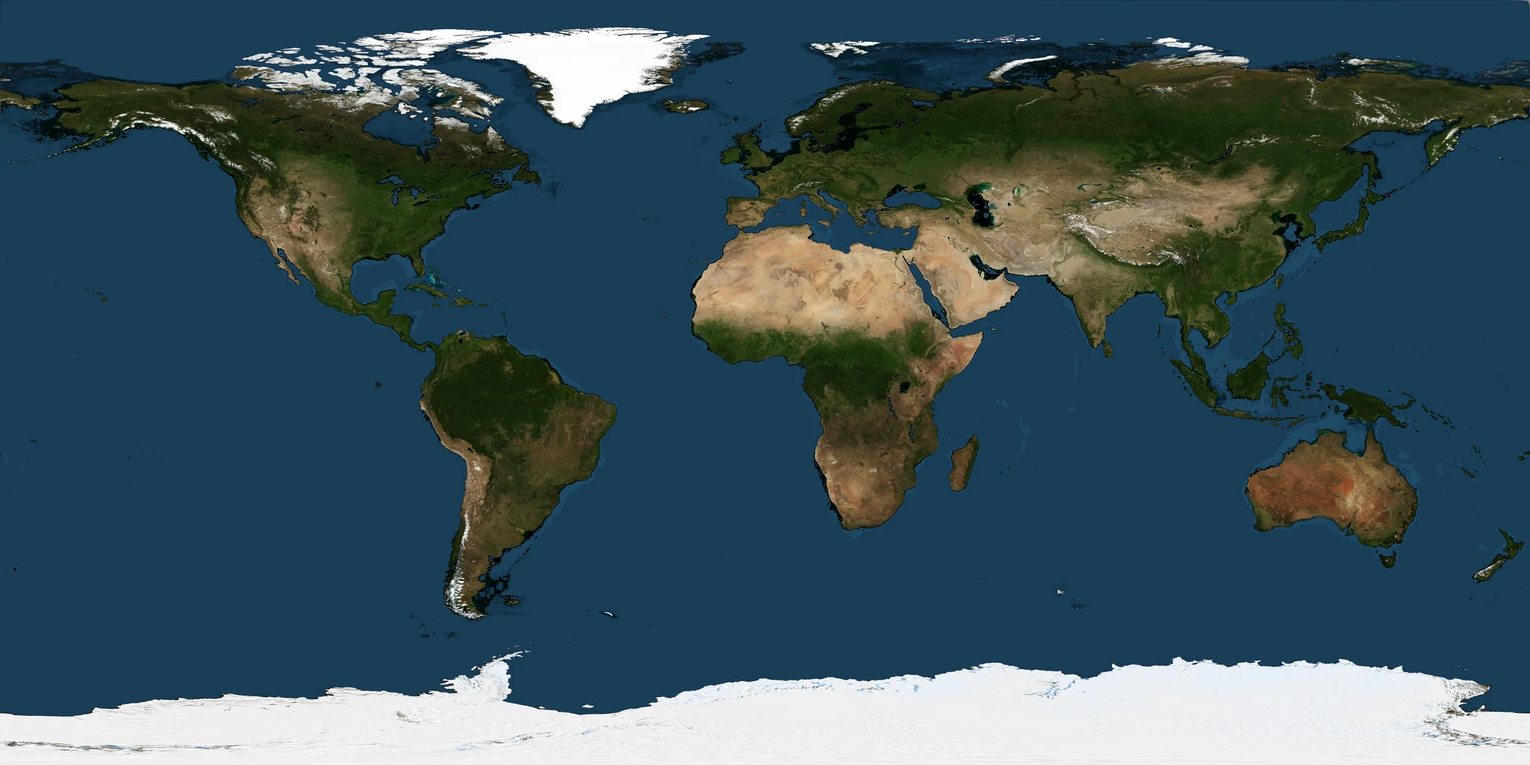
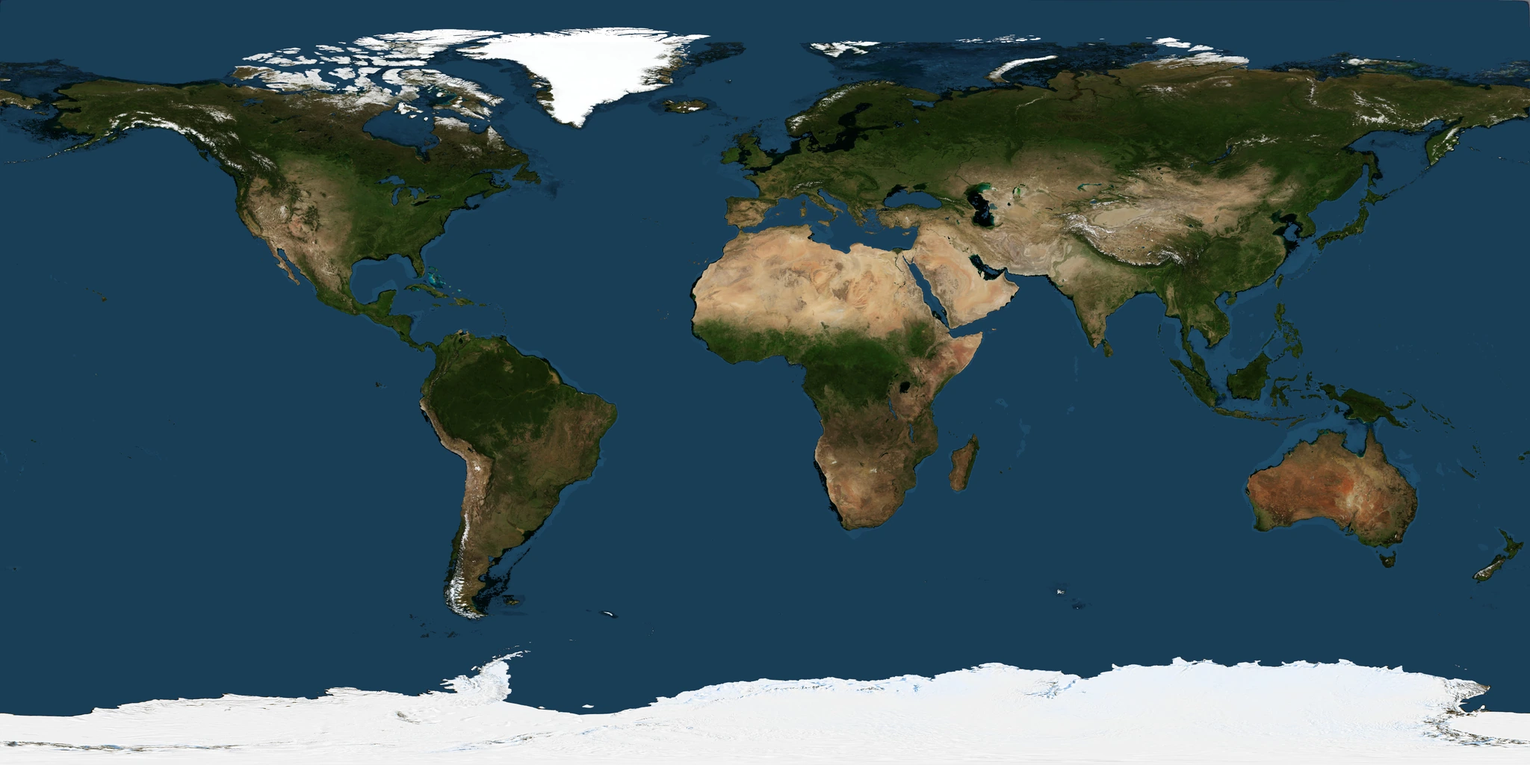
Improve Earth perspective and satellite detail with 8K NASA materials

Changed region(s): [[0.3125, 0.75, 0.3438, 0.7812], [0.3125, 0.2188, 0.3438, 0.25]]

diff --git a/src/components/earth-scene.tsx b/src/components/earth-scene.tsx
@@ -38,25 +38,26 @@ void main(){vec4 p=modelViewMatrix*vec4(position,1.); vNormal=normalize(normalMa
 const atmosphereFragment = `varying vec3 vNormal; varying vec3 vView;
 void main(){vec3 normal=normalize(vNormal); float facing=max(dot(normal,normalize(vView)),0.); float rim=pow(1.-facing,1.9); float edge=smoothstep(0.,.08,facing); float sun=max(dot(normal,normalize(vec3(-.7,.8,.35))),0.); vec3 air=mix(vec3(.28,.55,.78),vec3(.85,.95,1.),sun); gl_FragColor=vec4(air,rim*edge*(.15+.85*sun)*.85);}`;
 // The source's polar infill converges at the UV pole; fade only that cloud cap.
-function softenCloudPoles(shader: { vertexShader: string; fragmentShader: string }) {
+function prepareCloudLayer(shader: { vertexShader: string; fragmentShader: string }) {
   shader.vertexShader = "varying float vCloudLatitude;\n" + shader.vertexShader.replace("#include <begin_vertex>", "#include <begin_vertex>\nvCloudLatitude = position.y / 1.012;");
-  shader.fragmentShader = "varying float vCloudLatitude;\n" + shader.fragmentShader.replace("#include <alphamap_fragment>", "#include <alphamap_fragment>\ndiffuseColor.a *= 1. - smoothstep(.92, .99, abs(vCloudLatitude));");
+  shader.fragmentShader = "varying float vCloudLatitude;\n" + shader.fragmentShader.replace("#include <alphamap_fragment>", "#ifdef USE_ALPHAMAP\ndiffuseColor.a *= pow(texture2D(alphaMap, vAlphaMapUv).g, 1.35);\n#endif\ndiffuseColor.a *= 1. - smoothstep(.92, .99, abs(vCloudLatitude));");
 }
 function Globe(props: SceneProps) {
   const { lowPower, moving, selected, labels, onReady, onFailure } = props;
   const { camera, size, invalidate, gl } = useThree();
+  const surfaceSize = lowPower ? 2048 : gl.capabilities.maxTextureSize >= 8192 ? 8192 : 4096;
   const maps = useLoader(TextureLoader, [
-    `/assets/earth/surface-${lowPower ? 2048 : 4096}.webp`,
-    `/assets/earth/clouds-${lowPower ? 1024 : 2048}.webp`,
+    `/assets/earth/surface-${surfaceSize}.webp`,
+    `/assets/earth/clouds-${lowPower ? 2048 : 4096}.webp`,
   ]);
   // Own clones so unmount releases GPU textures without poisoning useLoader's cache.
   const [surface, clouds] = useMemo(() => {
     const surface = maps[0].clone(), clouds = maps[1].clone();
-    surface.colorSpace = SRGBColorSpace; surface.anisotropy = lowPower ? 2 : 4;
-    clouds.colorSpace = NoColorSpace;
+    surface.colorSpace = SRGBColorSpace; surface.anisotropy = Math.min(lowPower ? 4 : 8, gl.capabilities.getMaxAnisotropy());
+    clouds.colorSpace = NoColorSpace; clouds.anisotropy = surface.anisotropy;
     surface.needsUpdate = clouds.needsUpdate = true;
     return [surface, clouds];
-  }, [maps, lowPower]);
+  }, [maps, lowPower, gl]);
   const starTexture = useMemo(makeStarTexture, []);
   const earth = useRef<Group>(null), cloudSphere = useRef<Mesh>(null);
   const stars = useRef<Array<Sprite | null>>([]), time = useRef(0), frames = useRef(0);
@@ -101,16 +102,16 @@ function Globe(props: SceneProps) {
   return (
     <>
       <ambientLight intensity={1.05} />
-      <directionalLight position={[4, 5, -1]} color="#fff9f0" intensity={4.4} />
+      <directionalLight position={[4, 5, -1]} color="#fff9f0" intensity={3.6} />
       <directionalLight position={[-2, 1, -4]} color="#d5eaff" intensity={.2} />
       <group ref={earth}>
         <mesh>
-          <sphereGeometry args={[1, lowPower ? 64 : 96, lowPower ? 48 : 64]} />
+          <sphereGeometry args={[1, lowPower ? 64 : 128, lowPower ? 48 : 96]} />
           <meshStandardMaterial map={surface} roughness={.94} metalness={0} />
         </mesh>
         <mesh ref={cloudSphere}>
           <sphereGeometry args={[1.012, 64, 48]} />
-          <meshStandardMaterial color="#ffffff" alphaMap={clouds} onBeforeCompile={softenCloudPoles} transparent opacity={.42} depthWrite={false} roughness={1} />
+          <meshStandardMaterial color="#ffffff" alphaMap={clouds} onBeforeCompile={prepareCloudLayer} transparent opacity={.88} depthWrite={false} roughness={1} />
         </mesh>
         <mesh>
           <sphereGeometry args={[1.006, 96, 64]} />
@@ -129,13 +130,13 @@ export default function EarthScene(props: SceneProps) {
   return (
     <Canvas
       frameloop="demand"
-      dpr={props.lowPower ? 1 : [1, 1.5]}
+      dpr={props.lowPower ? [1, 1.5] : [1, 2]}
       camera={{ position: CAMERA_POSITION, fov: EARTH_VIEW.fov, near: .1, far: 20 }}
       gl={{ alpha: true, antialias: !props.lowPower, powerPreference: "low-power", preserveDrawingBuffer: props.capture }}
       onCreated={({ camera, gl }) => {
         camera.lookAt(0, 0, 0);
         gl.setClearColor(new Color("#fafaf7"), 0);
-        gl.toneMappingExposure = 1.14;
+        gl.toneMappingExposure = 1.12;
       }}
       fallback={null}
     >

diff --git a/tests/hero.spec.ts b/tests/hero.spec.ts
@@ -82,7 +82,7 @@ test('lost context and texture failure keep the static globe and working control
   await expect(page.locator('.earth-explorer')).toHaveAttribute('data-failed','true');
   await page.getByRole('button',{name:programs[2].name,exact:true}).click();
   await expect(page.locator('#selected-program h3')).toHaveText(programs[2].name);
-  expect(await page.locator('.earth-fallback').evaluate(e=>(e as HTMLImageElement).naturalWidth)).toBe(1200);
+  expect(await page.locator('.earth-fallback').evaluate(e=>(e as HTMLImageElement).complete && (e as HTMLImageElement).naturalWidth > 0)).toBe(true);
 });
 
 test('layout, label collisions, HTML accessibility and normal console health',async({page},testInfo)=>{
@@ -95,6 +95,7 @@ test('layout, label collisions, HTML accessibility and normal console health',as
   const result=await page.evaluate(()=>{
     const rects=[...document.querySelectorAll('.orb-label')].filter(el=>getComputedStyle(el).display!=='none').map(el=>el.getBoundingClientRect());
     return {
+      canvasAspect:(() => { const canvas=document.querySelector('canvas')!; const r=canvas.getBoundingClientRect(); return {css:r.width/r.height,buffer:canvas.width/canvas.height}; })(),
       overflow:document.documentElement.scrollWidth>innerWidth,
       overlaps:rects.some((a,i)=>rects.slice(i+1).some(b=>a.left<b.right&&a.right>b.left&&a.top<b.bottom&&a.bottom>b.top)),
       clipped:rects.some(r=>r.left<0||r.right>innerWidth),
@@ -102,6 +103,8 @@ test('layout, label collisions, HTML accessibility and normal console health',as
       targets:[...document.querySelectorAll('.orb-button')].map(e=>({w:e.getBoundingClientRect().width,h:e.getBoundingClientRect().height})),
     };
   });
+  expect(result.canvasAspect.css).toBeCloseTo(1,3);
+  expect(result.canvasAspect.buffer).toBeCloseTo(result.canvasAspect.css,3);
   expect(result.overflow).toBe(false);expect(result.overlaps).toBe(false);expect(result.clipped).toBe(false);expect(result.hiddenButtons).toBe(false);
   result.targets.forEach(r=>{expect(r.w).toBeGreaterThanOrEqual(44);expect(r.h).toBeGreaterThanOrEqual(44)});
   expect(errors).toEqual([]);

diff --git a/src/components/earth-explorer.tsx b/src/components/earth-explorer.tsx
@@ -90,7 +90,7 @@ export function EarthExplorer() {
       <div ref={stage} className="earth-stage" aria-label="Земля и четыре программы фонда">
         <div className="earth-halo" aria-hidden="true" />
         <div className="earth-visual" aria-hidden="true">
-          <img className="earth-fallback" src="/assets/earth-static.webp" alt="" width="1200" height="1200" fetchPriority="high" style={{ opacity: ready && !failed ? 0 : 1 }} />
+          <img className="earth-fallback" src="/assets/earth-static.webp" srcSet="/assets/earth-static.webp 1200w, /assets/earth-static-2400.webp 2400w" sizes="(max-width: 760px) 92vw, (max-width: 1100px) 83vw, 74vw" alt="" width="2400" height="2400" fetchPriority="high" style={{ opacity: ready && !failed ? 0 : 1 }} />
           {enabled && started && !failed && <div className="earth-canvas" style={{ opacity: ready ? 1 : 0 }}>
             <SceneBoundary onError={onFailure}>
               <Scene onReady={onReady} onFailure={onFailure} lowPower={lowPower} moving={moving} selected={selected} labels={labels} capture={capture} />
@@ -128,7 +128,7 @@ export function EarthExplorer() {
           <h3>{p.name}</h3><p>{p.summary}</p><Link href={`/programs/${p.slug}`} className="text-link">О программе</Link>
         </div>)}
       </div>
-      <p className="geography-caption">Огоньки обозначают программы, а не места оказания помощи.</p>
+      <p className="geography-caption">Огоньки обозначают программы, а не места оказания помощи. <a href="/assets/earth/CREDITS.txt">Источники изображения</a></p>
     </div>
   );
 }

diff --git a/src/app/globals.css b/src/app/globals.css
@@ -1327,7 +1327,7 @@ img {
 .earth-visual { mask-image: linear-gradient(to bottom, #000 0%, #000 63%, transparent 73%), linear-gradient(to right, transparent 0%, #000 14%); mask-composite: intersect; }
 .earth-halo { inset: 1% 1%; background: radial-gradient(circle, transparent 44%, #d6e9f170 49%, transparent 54%); filter: blur(14px); }
 .earth-explorer .orb-label { top: 50%; left: 42px; transform: translateY(-50%); max-width: clamp(130px, 11.35vw, 180px); padding: 3px 5px; border: 0; border-radius: 0; background: transparent; box-shadow: none; font: 400 clamp(18px, 1.45vw, 23px)/1.05 var(--serif); text-align: left; text-shadow: 0 0 5px #fafaf7, 0 0 10px #fafaf7, 0 0 20px #fafaf7, 0 0 28px #fafaf7; }
-.earth-explorer .orb-label::before { content: ""; position: absolute; inset: -10px -13px; background: #fafaf7a6; filter: blur(12px); z-index: -1; pointer-events: none; }
+.earth-explorer .orb-label::before { content: ""; position: absolute; inset: -6px -8px; background: #fafaf790; filter: blur(9px); z-index: -1; pointer-events: none; }
 .earth-explorer .orb-button:hover .orb-label, .earth-explorer .orb-button:focus-visible .orb-label, .earth-explorer .orb-button.is-selected .orb-label { color: #142e42; background: transparent; text-decoration: underline; text-decoration-color: #b18a51; text-underline-offset: 5px; }
 .earth-explorer .earth-caption { position: absolute; bottom: 24px; right: calc(7vw + 8%); padding: 0; gap: 14px; z-index: 4; }
 .earth-explorer .earth-caption p { color: var(--muted); font-size: 12px; }

diff --git a/src/lib/earth-model.ts b/src/lib/earth-model.ts
@@ -1,5 +1,6 @@
 /** Shared by the renderer and its HTML/static projection. No WebGL dependency. */
-export const EARTH_VIEW = { latitude: 50, longitude: 90, distance: 3.8, fov: 32 };
+// A longer lens preserves the silhouette while reducing central perspective enlargement.
+export const EARTH_VIEW = { latitude: 47, longitude: 85, distance: 6, fov: 20.3 };
 export type Point3 = [number, number, number];
 export function geographicPoint(latitude: number, longitude: number, radius = 1): Point3 {
   const lat = latitude * Math.PI / 180, lon = longitude * Math.PI / 180;

diff --git a/docs/ASSETS.md b/docs/ASSETS.md
@@ -2,10 +2,11 @@
 
 - `public/assets/land.geojson`: Natural Earth 1:110m land, https://github.com/nvkelso/natural-earth-vector/blob/master/geojson/ne_110m_land.geojson. Public domain: https://www.naturalearthdata.com/about/terms-of-use/ . Данные без государственных границ и подписей.
 - `earth-texture.png`: прежняя карта Natural Earth, больше не используется в hero.
-- `public/assets/earth/surface-{4096,2048}.webp`: NASA Blue Marble Next Generation, июль 2004. Источник: https://science.nasa.gov/earth/earth-observatory/blue-marble-next-generation/base-map/ . Исходный JPEG 5400×2700: https://assets.science.nasa.gov/content/dam/science/esd/eo/images/bmng/bmng-base/july/world.200407.3x5400x2700.jpg . Авторство: NASA Earth Observatory, Reto Stöckli / Robert Simmon. Подготовлены локальные развёртки 4096×2048 и 2048×1024; почти чёрный глубокий океан слегка осветлён до синего для читаемости, география сохранена.
-- `public/assets/earth/clouds-{2048,1024}.webp`: отдельная маска облаков NASA, https://eoimages.gsfc.nasa.gov/images/imagerecords/57000/57747/cloud_combined_2048.jpg . Размеры 2048×1024 и 1024×512. Это исторический композит, не текущая погода. В шейдере облачный слой плавно ослабляется у полюсов, чтобы не показывать радиальные артефакты полярного заполнения исходной карты.
-- Материалы NASA скачаны 4 октября 2026 года. Условия использования NASA: https://www.nasa.gov/nasa-brand-center/images-and-media/ . Логотипы NASA не используются, поддержка NASA не подразумевается.
-- `earth-static.webp`: статичный прозрачный WebP-рендер итоговой Three.js-сцены, 1200×1200. `npm run assets` обновляет только спутниковые материалы и не перезаписывает этот рендер старой картой. Для обновления рендера при работающем локальном сервере: `npm run assets:render`; другой адрес задаётся `HERO_CAPTURE_URL`, браузер — `CHROMIUM_EXECUTABLE_PATH`.
+- `public/assets/earth/surface-{8192,4096,2048}.webp`: NASA Blue Marble Next Generation with Topography, июль 2004. Источник: https://science.nasa.gov/earth/earth-observatory/blue-marble-next-generation/base-topography/ . Исходный JPEG 21600×10800: https://assets.science.nasa.gov/content/dam/science/esd/eo/images/bmng/bmng-topography/july/world.topo.200407.3x21600x10800.jpg . Авторство: NASA Earth Observatory, Reto Stöckli / Robert Simmon. Это спутниковая карта с реальным топографическим затенением. Подготовлены развёртки 8192×4096 (desktop), 4096×2048 (GPU без 8K) и 2048×1024 (мобильные/слабые устройства), WebP quality 92. Почти чёрный глубокий океан слегка осветлён до синего; география сохранена. Исходная карта base map также исследована: https://science.nasa.gov/earth/earth-observatory/blue-marble-next-generation/base-map/ .
+- `public/assets/earth/clouds-{4096,2048}.webp`: Solar System Scope / INOVE, https://www.solarsystemscope.com/textures/ . Исходник 8192×4096: https://www.solarsystemscope.com/textures/download/8k_earth_clouds.jpg . CC BY 4.0: https://creativecommons.org/licenses/by/4.0/ . Маска преобразована в grayscale WebP quality 90, 4096×2048 для desktop и 2048×1024 для мобильных. В шейдере контраст прозрачности сохраняет яркие ядра облаков и уменьшает общий туман; полярная часть плавно ослабляется. Это исторический композит, не текущая погода. Публичная атрибуция — `/assets/earth/CREDITS.txt`, ссылка в hero.
+- Материалы скачаны 4 октября 2026 года. Условия использования NASA: https://www.nasa.gov/nasa-brand-center/images-and-media/ . Логотипы NASA не используются, поддержка NASA не подразумевается.
+- `earth-static.webp` (1200×1200) и `earth-static-2400.webp` (2400×2400): прозрачные WebP-рендеры итоговой Three.js-сцены, quality 94. Responsive `srcset` выбирает подходящий файл. `npm run assets` обновляет только спутниковые материалы и не перезаписывает рендеры старой картой. Для обновления при работающем локальном сервере: `npm run assets:render`; адрес задаётся `HERO_CAPTURE_URL`, браузер — `CHROMIUM_EXECUTABLE_PATH`. Команда дожидается canvas 2400×2400 и снимает обе версии с одного кадра.
+- Рассмотрена готовая NASA Earth with Clouds: https://science.nasa.gov/resource/earth-with-clouds-3d-model/ . Скачанная GLB (18,93 MB) содержит один меш, один материал и атласы 4096×3072, в том числе облака, объединённые с поверхностью. Не включена в проект: отдельные слои с 8K-картой поверхности сохраняют больше детализации и независимое движение облаков. Объём исходной GLB и структура проверены локально.
 - Свечение звёзд построено процедурно в canvas. Их положение символизирует программы фонда, а не географию помощи.
 - Manrope и Cormorant Garamond: локальные пакеты Fontsource, SIL Open Font License; лицензии находятся в пакетах зависимостей.
 - Иконки Lucide: ISC, пакет lucide-react.

diff --git a/design-qa.md b/design-qa.md
@@ -1,4 +1,38 @@
-# Hero: сверка с предоставленным эскизом
+# Hero: детализация и пропорции — текущая проверка
+
+4 октября 2026, уточнение после замечания владельца о сжатом глобусе и слабых текстурах.
+
+- Диагностика: CSS canvas 1173.625×1173.625 и framebuffer 1173×1173 при viewport 1586×992. Растяжения по осям нет. Вне CSS-маски прежний силуэт занимает 1132×1132 px; новый контрольный рендер — 2294×2294 в canvas 2400×2400. Оба круглы. Изменена перспектива, а не масштаб одной из осей.
+- Камера: 47°N / 85°E, distance 6, FOV 20.3°. Более длинная перспектива уменьшает увеличение центра материка и показывает больше полушария при сопоставимом размере Земли. Европа слева, Сибирь сверху по центру, Восточная Азия справа.
+- Поверхность: NASA Blue Marble with Topography, исходник 21600×10800 → 8192×4096 desktop, 4096×2048 при ограничении GPU, 2048×1024 mobile. Реальное топографическое затенение лучше показывает горные хребты.
+- Облака: исходник Solar System Scope 8K → отдельный слой 4K/2K. Настроена прозрачность, чтобы сохранить яркие ядра и избежать сплошного тумана. Увеличена анизотропная фильтрация, DPR ограничен 2/1.5. Немного уменьшена интенсивность основного света и подложки названий.
+- Статичный кадр: обе версии 1200×1200 и 2400×2400 сняты с одного настоящего WebGL-рендера. Responsive srcset сохраняет квадратные пропорции. Первый кадр остаётся до готовности сцены.
+- Готовая NASA Earth with Clouds GLB проверена: один меш/материал, атласы 4096×3072 с объединёнными облаками и поверхностью. Выбраны отдельные более подробные карты, а не эта модель. Сведения об источниках и публичная атрибуция добавлены в docs/ASSETS.md и CREDITS.txt.
+
+## Визуальные доказательства
+
+- Эскиз: `/workspace/scratch/53b30efae277/upload/image(1).png`, 1586×992.
+- Новый desktop: `/workspace/scratch/53b30efae277/hero-delivery/hero-quality-desktop.png`, 1586×992, DPR 1, анимация на паузе.
+- Новый mobile: `/workspace/scratch/53b30efae277/hero-delivery/hero-quality-mobile.png`, 390 CSS px.
+- До/после при одинаковом масштабе: `/workspace/scratch/53b30efae277/hero-delivery/hero-quality-comparison.png`.
+- Эскиз/результат при одинаковом масштабе: `/workspace/scratch/53b30efae277/hero-qa/quality-reference-comparison.png`.
+- Просмотрены также новые 1440×900, 768×1024, 390 и 360 px из `/workspace/scratch/53b30efae277/hero-qa/quality-tests/`. Нет пересечений или обрезания названий, порядок мобильных блоков сохранён.
+
+## Проверка и ограничения
+
+- Production build и TypeScript завершены без ошибок; `git diff --check` чистый.
+- Все 44 Playwright-проверки прошли за 3.0 минуты, включая 20 сценариев hero. Проверены клавиатура, все программы, Escape, фокус, пауза и остановка RAF, reduced motion, скрытие вкладки/сцены, no-WebGL, потеря контекста и ошибка материалов, отсутствие скачков высоты, скролла и ошибок приложения.
+- Добавлена проверка совпадения пропорций CSS canvas и framebuffer во всех четырёх размерах.
+- Облачный браузер: новый статичный кадр виден, карточка открывается, Escape возвращает фокус; горизонтального скролла нет. Активный WebGL проверен Chromium/SwiftShader.
+- Desktop: карты поверхности и облаков суммарно 6.13 MB; mobile: 0.94 MB. Начальный WebP — 0.44 MB либо 1.36 MB для больших экранов/высокого DPR. Более подробный desktop требует больше памяти и времени загрузки; до готовности остаётся статичный кадр. Полевые показатели загрузки, аппаратный GPU и физический Safari/iOS не измерялись.
+- География и сезонная окраска NASA отличаются от художественного эскиза. Точное совпадение не заявляется; данные не подменены сгенерированными материками.
+
+final result: passed (проверенные размеры и сценарии; визуальная оценка не равна пиксельному совпадению с эскизом)
+
+---
+
+## Предыдущая итерация: композиция
+
 
 - Дата: 4 октября 2026.
 - Визуальный источник: `/workspace/scratch/53b30efae277/upload/image(1).png`, 1586×992 px.

diff --git a/README.md b/README.md
@@ -36,9 +36,9 @@ npm start
 
 Команда: `src/components/team-section.tsx`. ФИО и назначения подтверждены Решением № 1 от 19.08.2026; полномочия описаны в уставе. Публичные тексты предоставлены владельцем фонда. Шесть карточек разделены на руководство, Совет фонда, Попечительский совет и Ревизора. PDF решения с персональными данными не публикуется. Фотографии и краткие биографии можно добавить позже.
 
-Земля использует настоящие спутниковые текстуры NASA Blue Marble: 4096×2048 для desktop и 2048×1024 для мобильных. Облака — отдельный прозрачный слой, атмосфера — тонкое Fresnel-свечение. Камера направлена на 50°N / 90°E: Россия в верхней центральной части поверхности. На desktop Земля выходит за правый и нижний края hero; на мобильном отображается компактно между текстом и выбором программы. `npm run assets` обновляет материалы NASA, `npm run assets:render` снимает статичный WebP с локального сервера. Источники и воспроизводимость — `docs/ASSETS.md`.
+Земля использует настоящие спутниковые текстуры NASA Blue Marble: 8192×4096 для desktop (4096×2048 на GPU без 8K) и 2048×1024 для мобильных. Облака Solar System Scope — отдельный прозрачный слой 4K/2K, атмосфера — тонкое Fresnel-свечение. Камера направлена на 47°N / 85°E с более длинной перспективой (distance 6 / FOV 20.3°): Россия в верхней центральной части поверхности. На desktop Земля выходит за правый и нижний края hero; на мобильном отображается компактно между текстом и выбором программы. `npm run assets` обновляет материалы NASA, `npm run assets:render` снимает статичный WebP с локального сервера. Источники и воспроизводимость — `docs/ASSETS.md`.
 
-3D загружается отдельно. Canvas использует `frameloop="demand"`, DPR не выше 1.5 (1 на мобильных/слабых устройствах), без постобработки. Земля слегка покачивается, облака медленно движутся, четыре звезды парят в общей 3D-системе координат. Доступные HTML-кнопки следуют экранной проекции звёзд; кадры обновляются через refs без React state на каждом кадре. Движение останавливается при наведении, фокусе, выборе, скрытой вкладке, выходе сцены из видимой области, пользовательской паузе и reduced motion. Без WebGL, при потере контекста или ошибке загрузки остаётся статическое изображение и навигация. `/?static` явно включает fallback для проверки.
+3D загружается отдельно. Canvas использует `frameloop="demand"`, DPR не выше 2 (1.5 на мобильных/слабых устройствах), без постобработки. Земля слегка покачивается, облака медленно движутся, четыре звезды парят в общей 3D-системе координат. Доступные HTML-кнопки следуют экранной проекции звёзд; кадры обновляются через refs без React state на каждом кадре. Движение останавливается при наведении, фокусе, выборе, скрытой вкладке, выходе сцены из видимой области, пользовательской паузе и reduced motion. Без WebGL, при потере контекста или ошибке загрузки остаётся статическое изображение и навигация. `/?static` явно включает fallback для проверки.
 
 ## Перед публикацией
 

diff --git a/docs/VERIFICATION.md b/docs/VERIFICATION.md
@@ -1,5 +1,13 @@
 # Проверка прототипа
 
+## Детализация и пропорции Земли — 4 октября 2026
+
+Исправлена перспектива камеры (47°N / 85°E, distance 6, FOV 20.3°), добавлены поверхность NASA 8K с рельефом из исходника 21600×10800, облака Solar System Scope 4K, статичный WebP 2400×2400 и адаптивная версия 1200×1200. Мобильные карты ограничены 2K, DPR — 1.5; desktop DPR — до 2. Источники и лицензии задокументированы, публичная атрибуция доступна из hero.
+
+Свежие проверки: `npm run build`, `npm run typecheck`, `git diff --check` — без ошибок. Все **44 Playwright-проверки прошли** за 3.0 минуты. Размеры 1440×900, 768×1024, 390 и 360 px; дополнительно визуальная сверка 1586×992 с пользовательским эскизом. Пропорции canvas/framebuffer совпадают, статичный силуэт круглый (2294×2294 px). Программы, клавиатура, Escape, фокус, пауза, reduced motion, остановка RAF, видимость, WebGL-ошибки и статичный режим остаются рабочими. В нормальном сценарии нет ошибок приложения, горизонтального скролла, пересечений подписей и скачков высоты.
+
+Отдельно в облачном браузере подтверждены новый fallback, открытие карточки и возврат фокуса. Тестирование WebGL выполнено в Chromium/SwiftShader; физические устройства, аппаратный GPU, Safari и полевые метрики загрузки не проверялись. Карты desktop занимают 6.13 MB, mobile — 0.94 MB; начальный WebP 0.44/1.36 MB. Подробное сравнение и ограничения: `design-qa.md`. Следующие разделы — история прежних версий.
+
 ## Приближение hero к предоставленному эскизу — 4 октября 2026
 
 Земля увеличена до основной правой области и выходит за края первого экрана. Уточнены ракурс, свет, тонкая атмосфера, облака, позиции звёзд, HTML-подписи и отступы текста. Карточка появляется только после выбора, без изменения высоты hero. Обновлён статичный WebP 1200×1200.
